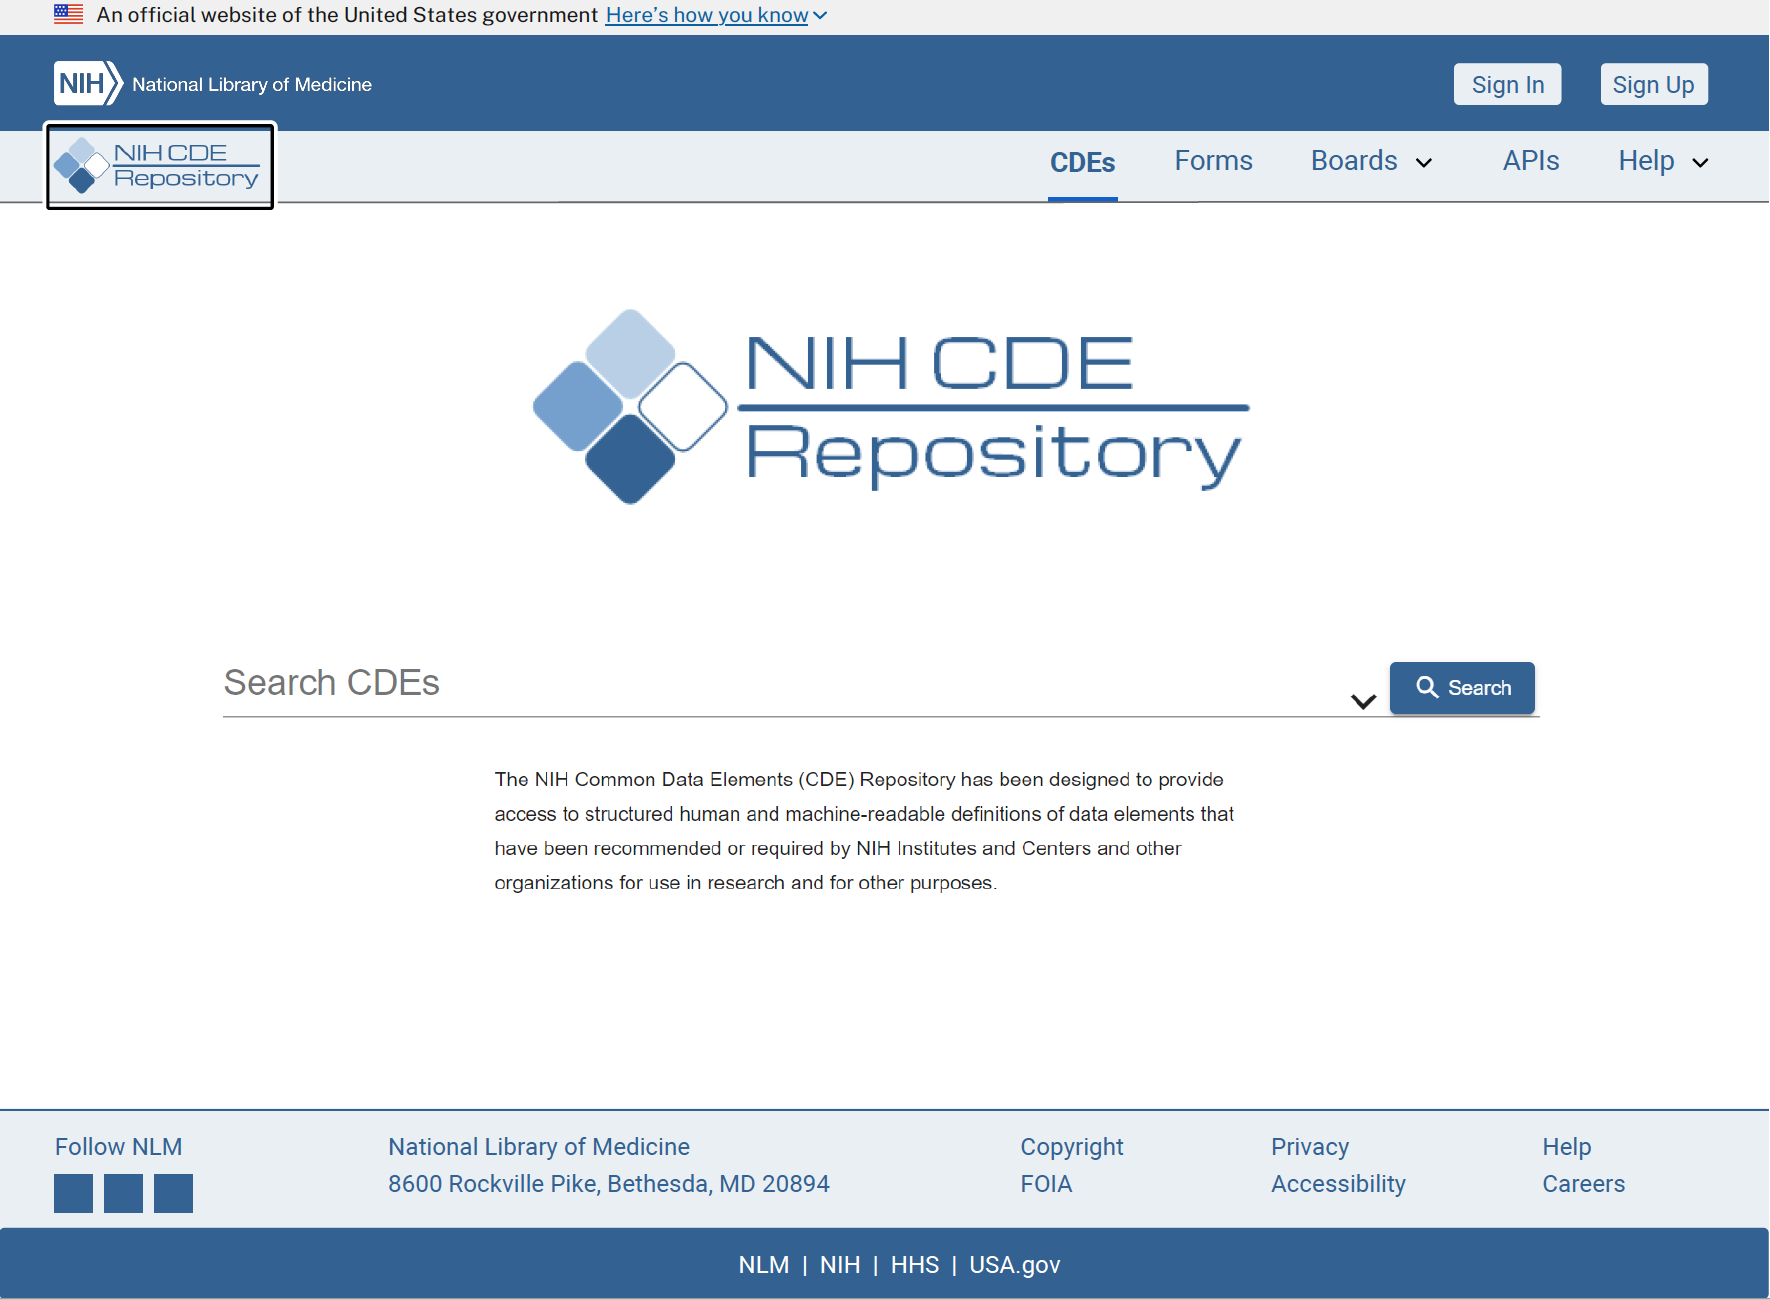
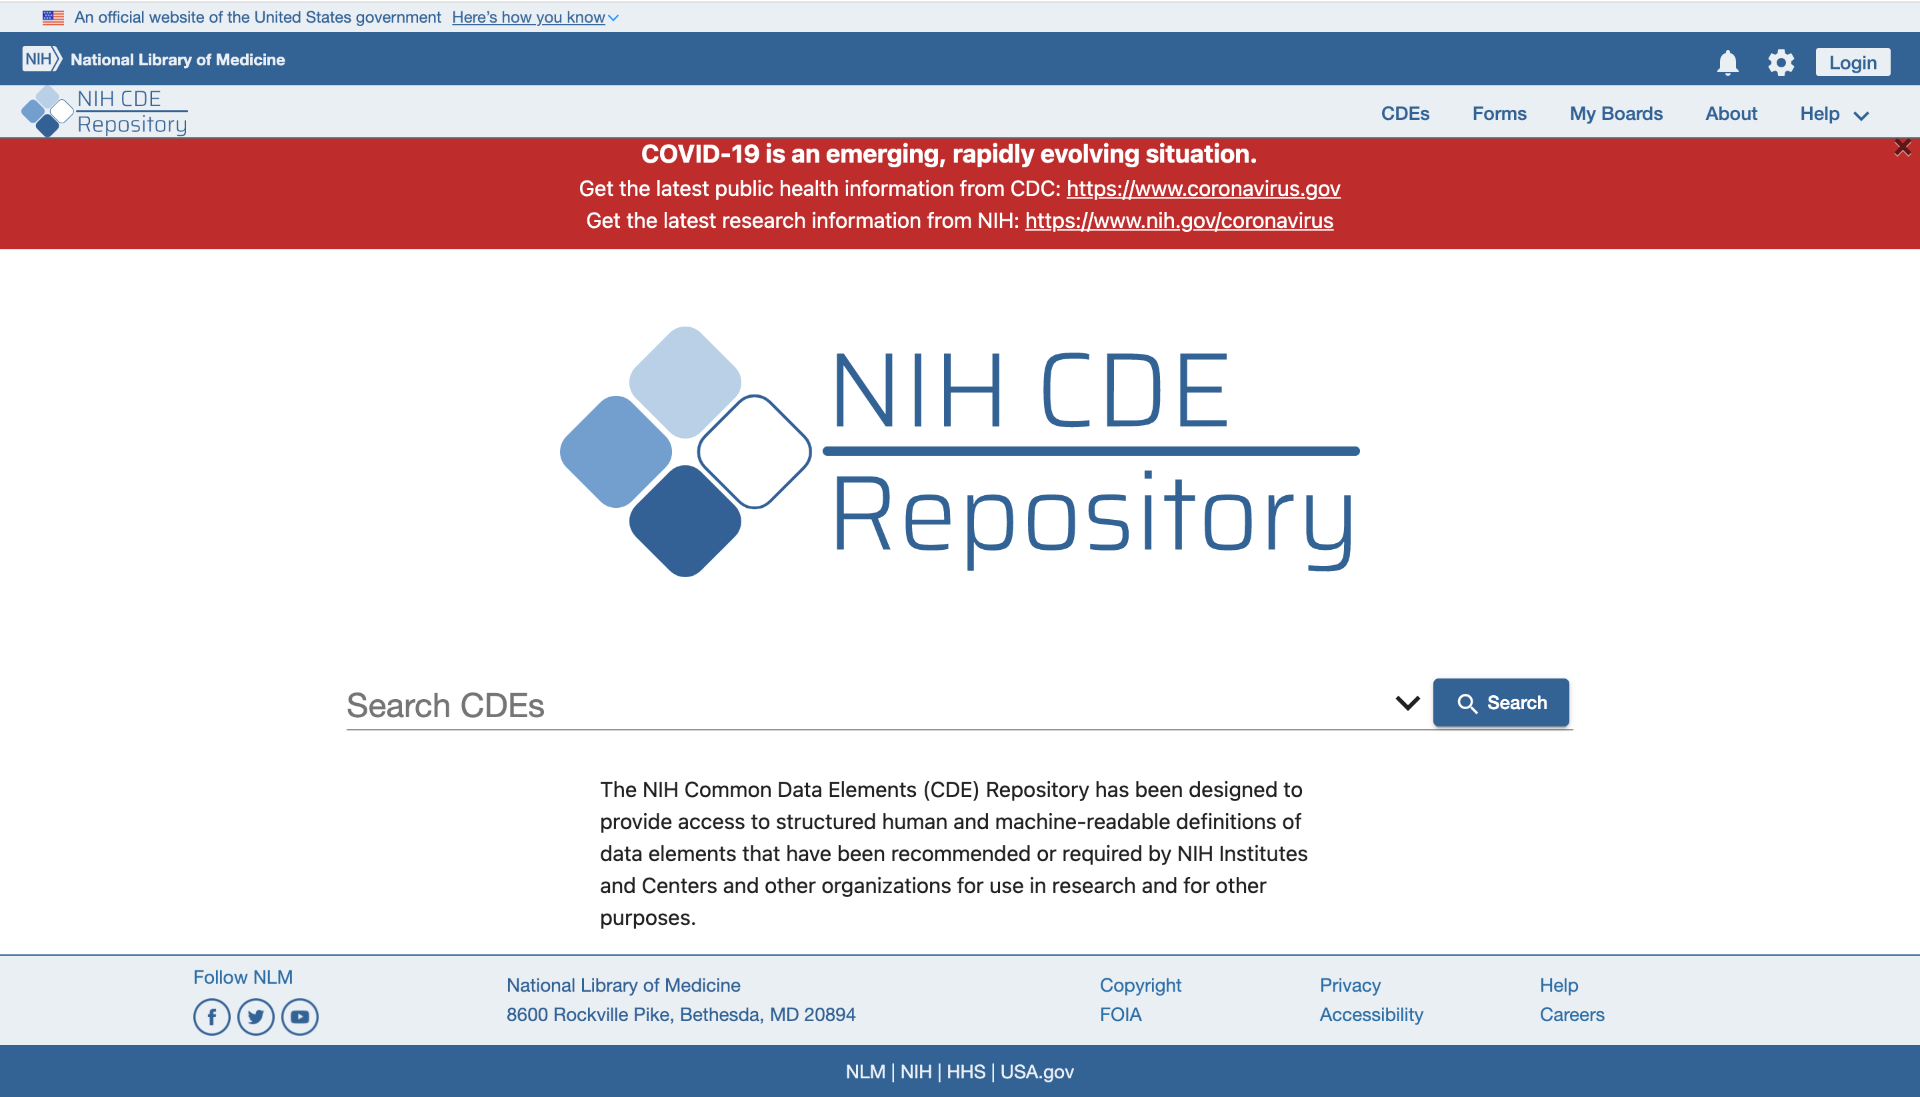
Changes

diff --git a/src/pages/case-studies/booz-allen.tsx b/src/pages/case-studies/booz-allen.tsx
@@ -2,7 +2,9 @@ import { ArrowLeft, Eye, ShieldCheck, Accessibility, Brain, CheckCircle, Wrench,
 import { Button } from "@/components/ui/button";
 import { Card, CardContent } from "@/components/ui/card";
 import { useNavigate } from "react-router-dom";
-import boozAllenImage from "@/assets/booz-allen-project.jpg";
+import nihCdeScreenshot from "@/assets/nih-cde-screenshot.png";
+import dotItsScreenshot from "@/assets/dot-its-screenshot.png";
+import fiscalDataScreenshot from "@/assets/fiscal-data-screenshot.png";
 import boozAllenWireframes from "@/assets/booz-allen-wireframes.jpg";
 
 const BoozAllenCaseStudy = () => {
@@ -31,11 +33,11 @@ const BoozAllenCaseStudy = () => {
             <p className="text-lg text-accent font-semibold">
               UI / UX Designer — Large-Scale, Accessibility-First Systems
             </p>
-            <img
-              src={boozAllenWireframes}
-              alt="Booz Allen Hamilton Government Design Projects — wireframe evolution"
-              className="w-full h-auto object-contain rounded-lg shadow-xl mt-6"
-            />
+            <div className="grid grid-cols-3 gap-3 mt-6">
+              <img src={nihCdeScreenshot} alt="NIH CDE Repository — healthcare data platform" className="w-full h-auto rounded-lg shadow-lg border border-border" />
+              <img src={dotItsScreenshot} alt="DOT ITS Deployment Evaluation — transportation platform" className="w-full h-auto rounded-lg shadow-lg border border-border" />
+              <img src={fiscalDataScreenshot} alt="Fiscal Data Treasury — government financial data" className="w-full h-auto rounded-lg shadow-lg border border-border" />
+            </div>
           </header>
 
           {/* Overview */}

diff --git a/src/components/Projects.tsx b/src/components/Projects.tsx
@@ -1,6 +1,6 @@
 import ProjectCard from "./ProjectCard";
 import usaaImage from "@/assets/usaa-sketches-journey.jpg";
-import boozAllenImage from "@/assets/booz-allen-wireframes.jpg";
+import boozAllenImage from "@/assets/dot-its-screenshot.png";
 import finavImage from "@/assets/finav-3d-floorplan.webp";
 
 const Projects = () => {
